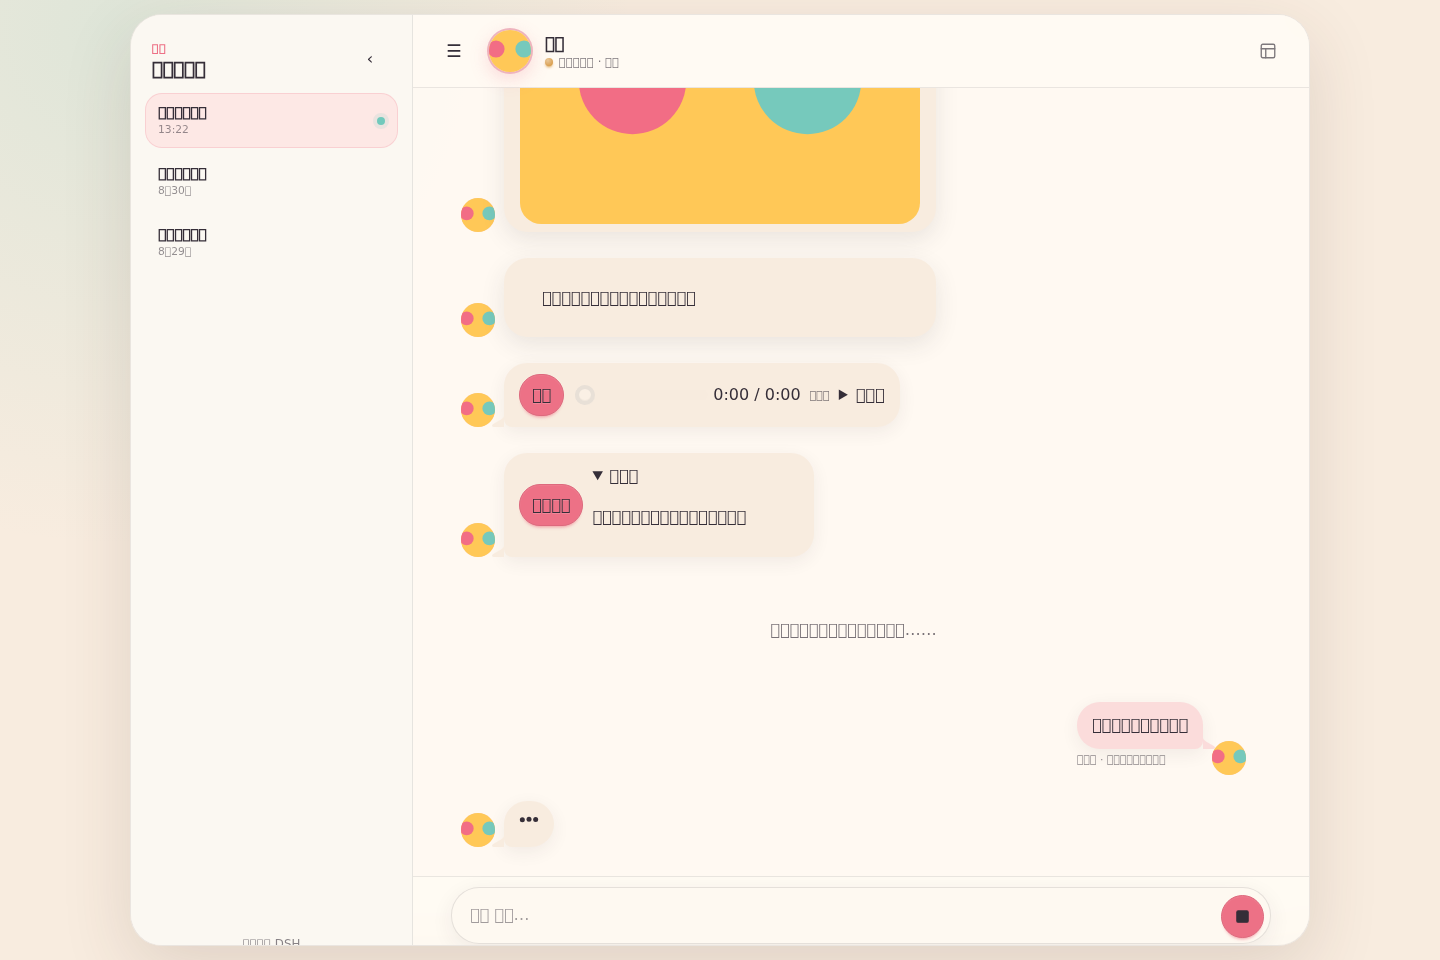
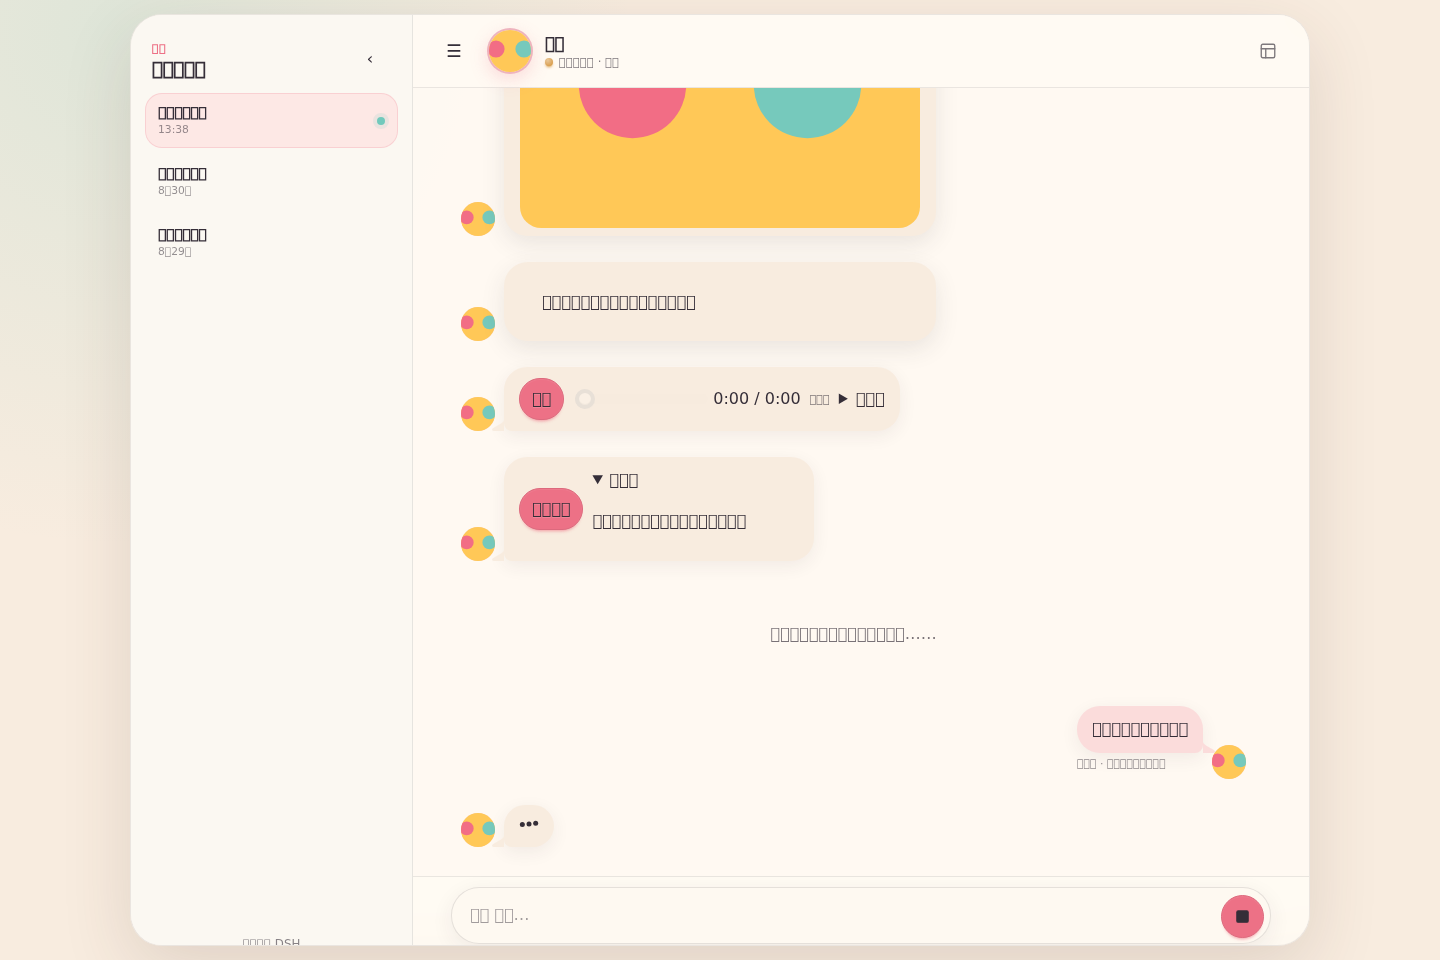
feat(companion): reveal replies only after completion

diff --git a/src/client/Companion.svelte b/src/client/Companion.svelte
@@ -46,6 +46,15 @@
   export let sessionReady = true;
 
   const dispatch = createEventDispatcher<{ advanced: void; recovery: void }>();
+  const LONG_WAIT_DELAY_MS = 12_000;
+  const LONG_WAIT_ROTATION_MS = 9_000;
+  const LONG_WAIT_MESSAGES = [
+    "我还在认真想，陪我再等一小会儿呀",
+    "正在把想说的话轻轻理好……",
+    "再给我一点点时间，很快就回来",
+    "这次想认真一点，不让你久等",
+    "我在这里，只是还在想怎么说更好",
+  ] as const;
   let composer = createComposerState();
   let stopping = false;
   let timeline: HTMLDivElement;
@@ -73,10 +82,48 @@
   let overlayHistory = false;
   let lightboxCloseFromHistory = false;
   let statusText = "";
+  let waitingCopy = "";
+  let waitingCycle = "";
+  let waitingDelayTimer: ReturnType<typeof setTimeout> | undefined;
+  let waitingRotationTimer: ReturnType<typeof setInterval> | undefined;
   const intensityLabels: Record<number, string> = { 1: "轻微", 2: "明显", 3: "强烈" };
 
   $: statusText = projection.status === "working" ? "正在陪你想" : projection.status === "reconnecting" ? "正在重新连接" : "已准备好";
+  $: syncWaitingState(projection.running, `${sessions.find((session) => session.selected)?.id ?? "none"}:${latestSettledReplyKey(projection)}`);
   $: if (projection) void reconcileProjection(projection);
+
+  function latestSettledReplyKey(value: CompanionProjection): string {
+    for (let index = value.items.length - 1; index >= 0; index -= 1) {
+      const item = value.items[index]!;
+      if (item.side === "incoming" && (item.kind !== "image" || item.state === "ready" || item.state === "failed")) return item.projectionKey ?? item.id;
+    }
+    return "empty";
+  }
+
+  function clearWaitingTimers(): void {
+    if (waitingDelayTimer !== undefined) clearTimeout(waitingDelayTimer);
+    if (waitingRotationTimer !== undefined) clearInterval(waitingRotationTimer);
+    waitingDelayTimer = undefined;
+    waitingRotationTimer = undefined;
+  }
+
+  function rotateWaitingCopy(): void {
+    const choices = LONG_WAIT_MESSAGES.filter((message) => message !== waitingCopy);
+    waitingCopy = choices[Math.floor(Math.random() * choices.length)] ?? LONG_WAIT_MESSAGES[0];
+  }
+
+  function syncWaitingState(running: boolean, replyKey: string): void {
+    const nextCycle = running ? replyKey : "";
+    if (nextCycle === waitingCycle) return;
+    waitingCycle = nextCycle;
+    clearWaitingTimers();
+    waitingCopy = "";
+    if (!running) return;
+    waitingDelayTimer = setTimeout(() => {
+      rotateWaitingCopy();
+      waitingRotationTimer = setInterval(rotateWaitingCopy, LONG_WAIT_ROTATION_MS);
+    }, LONG_WAIT_DELAY_MS);
+  }
 
   async function reconcileProjection(value: CompanionProjection): Promise<void> {
     await tick();
@@ -351,6 +398,7 @@
 
   onDestroy(() => {
     if (timelineRevealFrame) cancelAnimationFrame(timelineRevealFrame);
+    clearWaitingTimers();
     for (const audio of document.querySelectorAll<HTMLAudioElement>("#dsh-companion .companion-voice audio")) audio.pause();
     for (const url of Object.values(imageUrls)) if (url.startsWith("blob:")) URL.revokeObjectURL(url);
   });
@@ -460,7 +508,7 @@
               <div class="cmp-chat-image cmp-avatar cmp-avatar-placeholder cmp:rounded-full message-avatar">
                 <div class="companion-avatar-crop cmp:rounded-full">{#if identity.companionAvatar}<img src={identity.companionAvatar} alt="" />{:else}<span aria-hidden="true">✦</span>{/if}</div>
               </div>
-              <div class="cmp-chat-bubble companion-bubble"><span class="cmp-loading cmp-loading-dots cmp-loading-sm" aria-hidden="true"></span></div>
+              <div class="cmp-chat-bubble companion-bubble companion-typing-bubble"><span class="cmp-loading cmp-loading-dots cmp-loading-sm" aria-hidden="true"></span>{#if waitingCopy}<span class="companion-waiting-copy">{waitingCopy}</span>{/if}</div>
             </article>
           {/if}
           {#if !wasNearBottom && projection.items.length > 0}<button class="cmp-btn cmp-btn-primary cmp-btn-sm" style="position:sticky;bottom:10px;left:50%;transform:translateX(-50%)" on:click={() => timeline.scrollTop = timeline.scrollHeight}>有新消息 ↓</button>{/if}

diff --git a/src/client/theme.ts b/src/client/theme.ts
@@ -54,6 +54,8 @@ export const companionStyles = `
 #dsh-companion .companion-bubble{max-width:min(76vw,680px);padding:11px 15px;border-radius:23px 23px 23px 8px;background:var(--color-base-200);box-shadow:0 5px 18px color-mix(in srgb,var(--color-base-content) 7%,transparent);line-height:1.55;overflow-wrap:anywhere}
 #dsh-companion .outgoing .companion-bubble{border-radius:23px 23px 8px 23px;background:color-mix(in srgb,var(--color-primary) 22%,var(--color-base-100))}
 #dsh-companion .companion-meta{margin-top:4px;opacity:.55;font-size:.68rem}
+#dsh-companion .companion-typing-bubble{display:flex;align-items:center;gap:9px;max-width:min(76vw,340px)}
+#dsh-companion .companion-waiting-copy{color:color-mix(in srgb,var(--color-base-content) 68%,transparent);font-size:.76rem;line-height:1.4;animation:companion-waiting-in .24s ease-out}
 #dsh-companion .companion-media{width:min(70vw,480px);overflow:hidden;border-radius:24px;background:var(--color-base-200);box-shadow:0 8px 24px color-mix(in srgb,var(--color-base-content) 10%,transparent)}
 #dsh-companion .companion-media-button{display:block;width:100%;padding:0;border:0;background:transparent;cursor:zoom-in}
 #dsh-companion .companion-media img{display:block;width:100%;max-height:520px;object-fit:cover}
@@ -109,6 +111,7 @@ export const companionStyles = `
 #dsh-companion .companion-lightbox img{display:block;max-width:min(94vw,1000px);max-height:86vh;border-radius:22px;object-fit:contain}
 #dsh-companion .companion-lightbox-close{position:absolute;top:12px;right:12px;z-index:1}
 @keyframes companion-card-in{from{opacity:0;transform:translateY(-8px) scale(.96)}to{opacity:1;transform:none}}
+@keyframes companion-waiting-in{from{opacity:0;transform:translateX(-4px)}to{opacity:1;transform:none}}
 @media (min-width:821px){#dsh-companion .companion-sidebar-layer{position:relative;grid-column:1;grid-row:1;transform:none;width:100%;overflow:hidden}#dsh-companion .companion-app > .cmp-drawer-toggle:not(:checked) ~ .companion-sidebar-layer{width:0}#dsh-companion .companion-sidebar{position:absolute;inset:0 auto 0 0}}
 @media (max-width:820px){#dsh-companion.companion-shell{padding:0}#dsh-companion .companion-app,#dsh-companion .companion-app:has(> .cmp-drawer-toggle:checked){grid-template-columns:minmax(0,1fr);width:100%;height:100dvh;border:0;border-radius:0}#dsh-companion .companion-content{grid-column:1}#dsh-companion .companion-sidebar-layer{width:100%}#dsh-companion .companion-sidebar-overlay{position:absolute;inset:0;display:block;background:rgb(8 12 20 / .42)}#dsh-companion .companion-sidebar{position:relative;width:min(84vw,300px);box-shadow:20px 0 60px rgb(0 0 0 / .2)}#dsh-companion .companion-header{padding:calc(10px + env(safe-area-inset-top)) 13px 10px}#dsh-companion .companion-timeline{padding:18px 12px 10px}#dsh-companion .companion-composer{padding-inline:9px}#dsh-companion .companion-compose-hint{display:none}#dsh-companion .companion-message-stack,#dsh-companion .companion-bubble{max-width:78vw}}
 @media (max-width:430px){#dsh-companion .companion-avatar{width:42px;height:42px}#dsh-companion .companion-header{gap:8px}#dsh-companion .companion-row{grid-template-columns:30px minmax(0,auto);gap:7px}#dsh-companion .companion-row.outgoing{grid-template-columns:minmax(0,auto) 30px}#dsh-companion .message-avatar{width:30px;height:30px}#dsh-companion .companion-voice{min-width:0;flex-wrap:wrap}}

diff --git a/src/projection.ts b/src/projection.ts
@@ -16,7 +16,6 @@ export interface TimelineText {
   kind: "text";
   side: MessageSide;
   text: string;
-  streaming?: boolean;
   pending?: boolean;
   failed?: boolean;
   time?: number;
@@ -232,10 +231,11 @@ export function projectConversation(snapshot: unknown, connected = true): Compan
       continue;
     }
     if (isAssistantNode(node)) {
+      if (!isFinalized(node)) continue;
       const text = assistantText(node);
-      const passage = parseTtsPassage(text, isFinalized(node));
+      const passage = parseTtsPassage(text, true);
       const visibleText = passage ? `${text.slice(0, passage.start)}${text.slice(passage.end)}`.trim() : text;
-      if (visibleText) items.push({ id, kind: "text", side: "incoming", text: visibleText, streaming: !isFinalized(node), time });
+      if (visibleText) items.push({ id, kind: "text", side: "incoming", text: visibleText, time });
       items.push(...assistantMedia(node, id, time));
       if (passage) items.push({ id: ttsProjectionId(id, passage), kind: "voice", side: "incoming", text: passage.text, status: "preparing", time });
       continue;
@@ -253,12 +253,6 @@ export function projectConversation(snapshot: unknown, connected = true): Compan
       const projectionId = image.attachment ? imageGenProjectionId(image.id, image.attachment.attachmentId) : `imagegen:${image.id}`;
       items.push({ id: projectionId, projectionKey: `imagegen:${image.id}`, kind: "image", side: "incoming", state: image.state, attachment: image.attachment, alt: image.alt, error: image.error, time });
     }
-  }
-  const partial = asRecord(root.partial);
-  if (partial) {
-    const id = nodeId(partial, `partial-${partial.turn ?? "reply"}`);
-    const text = assistantText(partial);
-    if (text) items.push({ id, kind: "text", side: "incoming", text, streaming: true });
   }
   const pending = pendingNodes(snapshot);
   for (let index = 0; index < pending.length; index += 1) {
@@ -310,7 +304,7 @@ function dedupeTimeline(items: readonly TimelineItem[]): TimelineItem[] {
 
 function timelineRank(item: TimelineItem): number {
   if (item.kind === "image") return item.state === "ready" || item.state === "failed" ? 2 : 1;
-  if (item.kind === "text") return item.pending || item.streaming ? 1 : 2;
+  if (item.kind === "text") return item.pending ? 1 : 2;
   return 2;
 }
 

diff --git a/fixture/main.ts b/fixture/main.ts
@@ -24,9 +24,9 @@ const projection: CompanionProjection = {
     { id: "date:yesterday", kind: "notice", side: "incoming", tone: "info", text: "昨天 · 8月30日", time: now - 26 * 60 * 60 * 1000 },
     { id: "history-1", kind: "text", side: "incoming", text: "今天也见到你真好。**窗外的风**有一点点甜。\n\n- 收好今天的小星光\n- 慢慢讲给你听", time: now - 25 * 60 * 60 * 1000 },
     { id: "history-2", kind: "text", side: "outgoing", text: "我刚刚忙完，想听你说说今天。", time: now - 24 * 60 * 60 * 1000 },
-    { id: "history-3", kind: "text", side: "incoming", text: "那我把今天收集到的小小星光，慢慢讲给你听。", streaming: false, time: now - 23 * 60 * 60 * 1000 },
+    { id: "history-3", kind: "text", side: "incoming", text: "那我把今天收集到的小小星光，慢慢讲给你听。", time: now - 23 * 60 * 60 * 1000 },
     { id: "date:today", kind: "notice", side: "incoming", tone: "info", text: "今天 · 8月31日", time: now - 180000 },
-    { id: "reply", kind: "text", side: "incoming", text: "我们可以把一整天的喧闹放在门外，只留下这一小段安静的时间。", streaming: false, time: now - 180000 },
+    { id: "reply", kind: "text", side: "incoming", text: "我们可以把一整天的喧闹放在门外，只留下这一小段安静的时间。", time: now - 180000 },
     { id: "imagegen:demo:loading", kind: "image", side: "incoming", state: "loading", alt: "正在准备的海边图片", time: now - 165000 },
     { id: "imagegen:demo:img", kind: "image", side: "incoming", state: "ready", attachment: { attachmentId: "demo" as never, mediaType: "image/png", name: "今晚的海", bytes: 1200, width: 640, height: 420 }, alt: "今晚的海", time: now - 150000 },
     { id: "imagegen:demo:failed", kind: "image", side: "incoming", state: "failed", alt: "没有生成的图片", error: "这张图片没有完成，可以稍后再试。", time: now - 135000 },

diff --git a/tests/projection.test.ts b/tests/projection.test.ts
@@ -69,7 +69,7 @@ describe("chat projection", () => {
     ]);
   });
 
-  it("hides reasoning blocks from finalized and streaming assistant messages", () => {
+  it("shows only finalized assistant text and always hides reasoning", () => {
     const finalized = projectConversation({ nodes: [{
       kind: "assistant",
       seq: 1,
@@ -86,12 +86,11 @@ describe("chat projection", () => {
       ],
     } });
 
-    expect(finalized.items).toEqual([
-      expect.objectContaining({ kind: "text", text: "我在这里。", streaming: false }),
-    ]);
-    expect(streaming.items).toEqual([
-      expect.objectContaining({ kind: "text", text: "慢慢说", streaming: true }),
-    ]);
+    const streamingNode = projectConversation({ nodes: [{ kind: "assistant", seq: 3, streaming: true, blocks: [{ kind: "text", text: "还没说完" }] }] });
+
+    expect(finalized.items).toEqual([expect.objectContaining({ kind: "text", text: "我在这里。" })]);
+    expect(streaming.items).toEqual([]);
+    expect(streamingNode.items).toEqual([]);
   });
 
   it("keeps a queue row only until its keyed steering node arrives", () => {

diff --git a/tests/e2e/fixture.spec.ts b/tests/e2e/fixture.spec.ts
@@ -86,6 +86,21 @@ test("shows an incoming typing indicator only while the companion is running", a
   await expect(indicator).toHaveCount(0);
 });
 
+test("warms up a long typing wait with rotating non-repeating companion copy", async ({ page }) => {
+  await page.clock.install();
+  await page.goto("/");
+  const indicator = page.getByTestId("companion-typing-indicator");
+  await expect(indicator.locator(".companion-waiting-copy")).toHaveCount(0);
+  await page.clock.fastForward(12_000);
+  const copy = indicator.locator(".companion-waiting-copy");
+  await expect(copy).toBeVisible();
+  const first = await copy.textContent();
+  await page.clock.fastForward(9_000);
+  await expect(copy).not.toHaveText(first ?? "");
+  await page.evaluate(() => window.__companionFixture?.setRunning(false));
+  await expect(indicator).toHaveCount(0);
+});
+
 test("uses the composer action to stop a running reply without hiding queued messages", async ({ page }) => {
   await page.goto("/");
   await expect(page.getByText("还有一件小事想告诉你")).toBeVisible();

diff --git a/README.md b/README.md
@@ -32,6 +32,8 @@ Typing `/compact` as the complete Companion input invokes DSH's Session command 
 
 Messages sent during a reply use DSH's durable FIFO queue and remain separate turns. With an empty draft, the composer action stops the current reply without clearing queued messages; DSH resumes those messages in order after cancellation settles.
 
+DSH continues to stream and persist model output internally, while Companion shows assistant text only after its message is finalized. The typing bubble gains a slowly rotating, non-repeating companion note after a 12-second wait; stopping or completing the reply clears that transient timer state.
+
 The Companion deliberately does not include a Workspace picker, session list/new-chat flow, model or preset controls, permissions/approvals, reasoning, Trajectory, generic Tool cards, prompt-injection inspection, file upload, voice input, notifications, or multi-contact UI.
 
 ## Configuration and recovery
